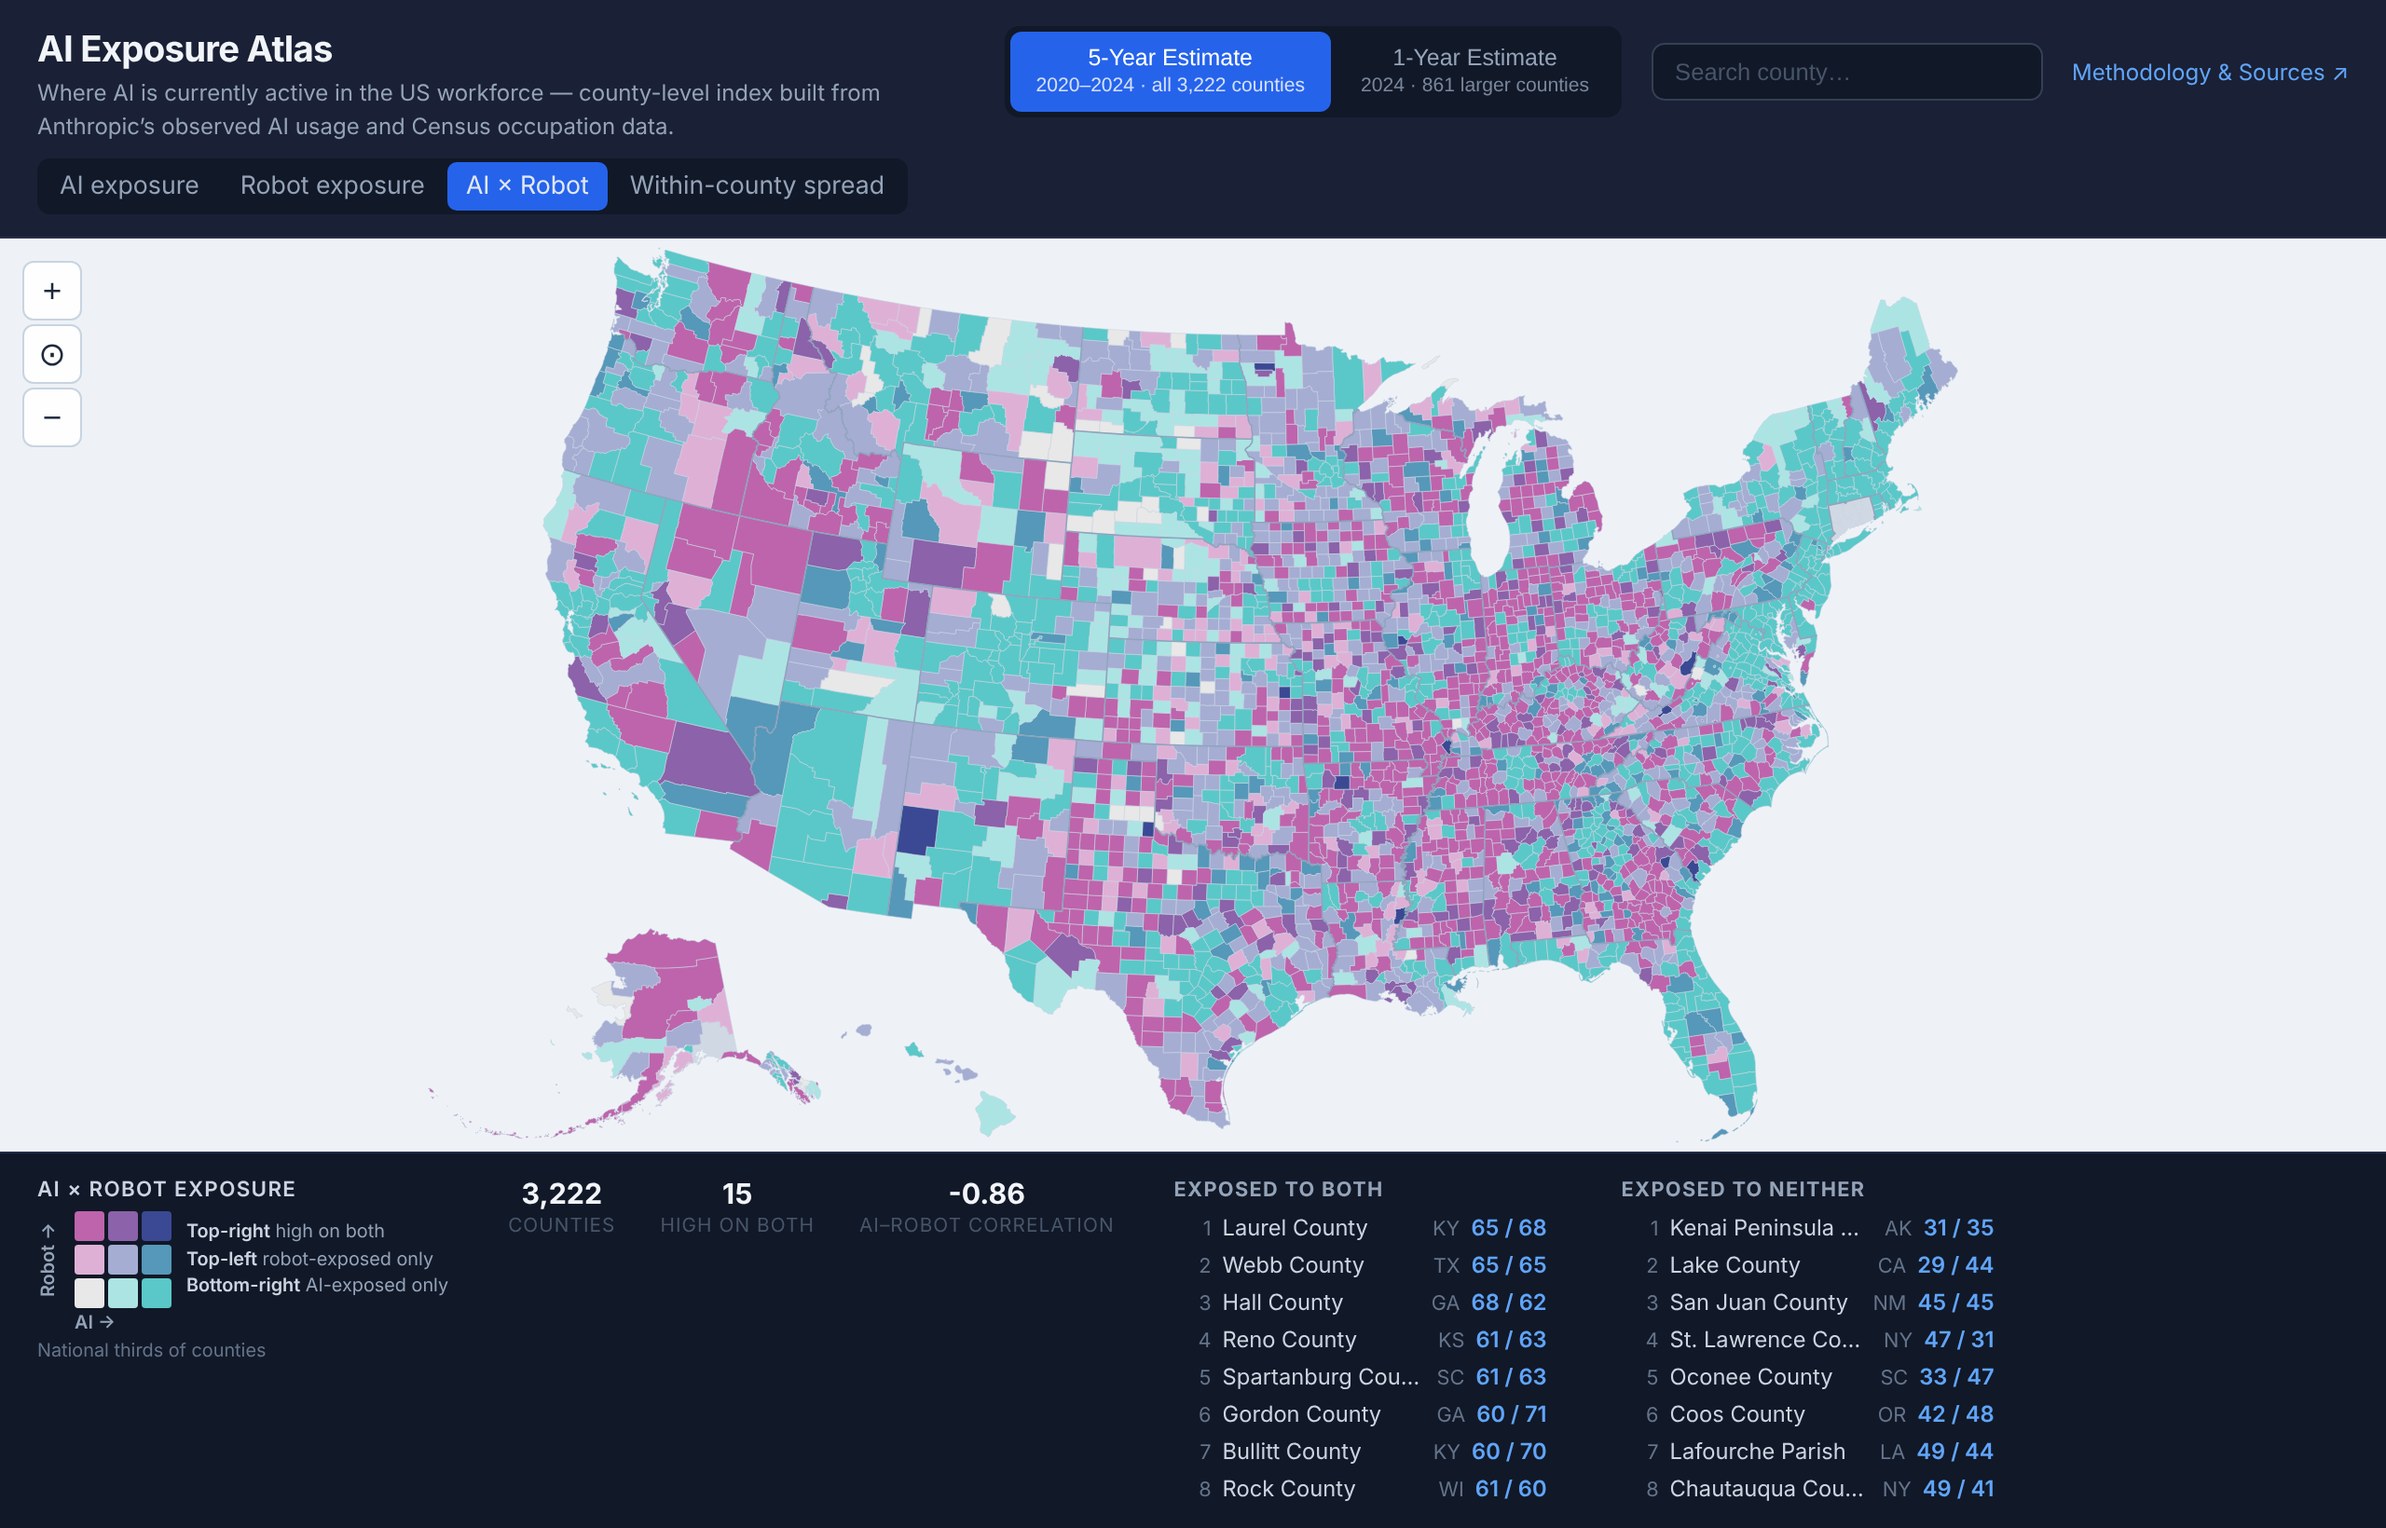
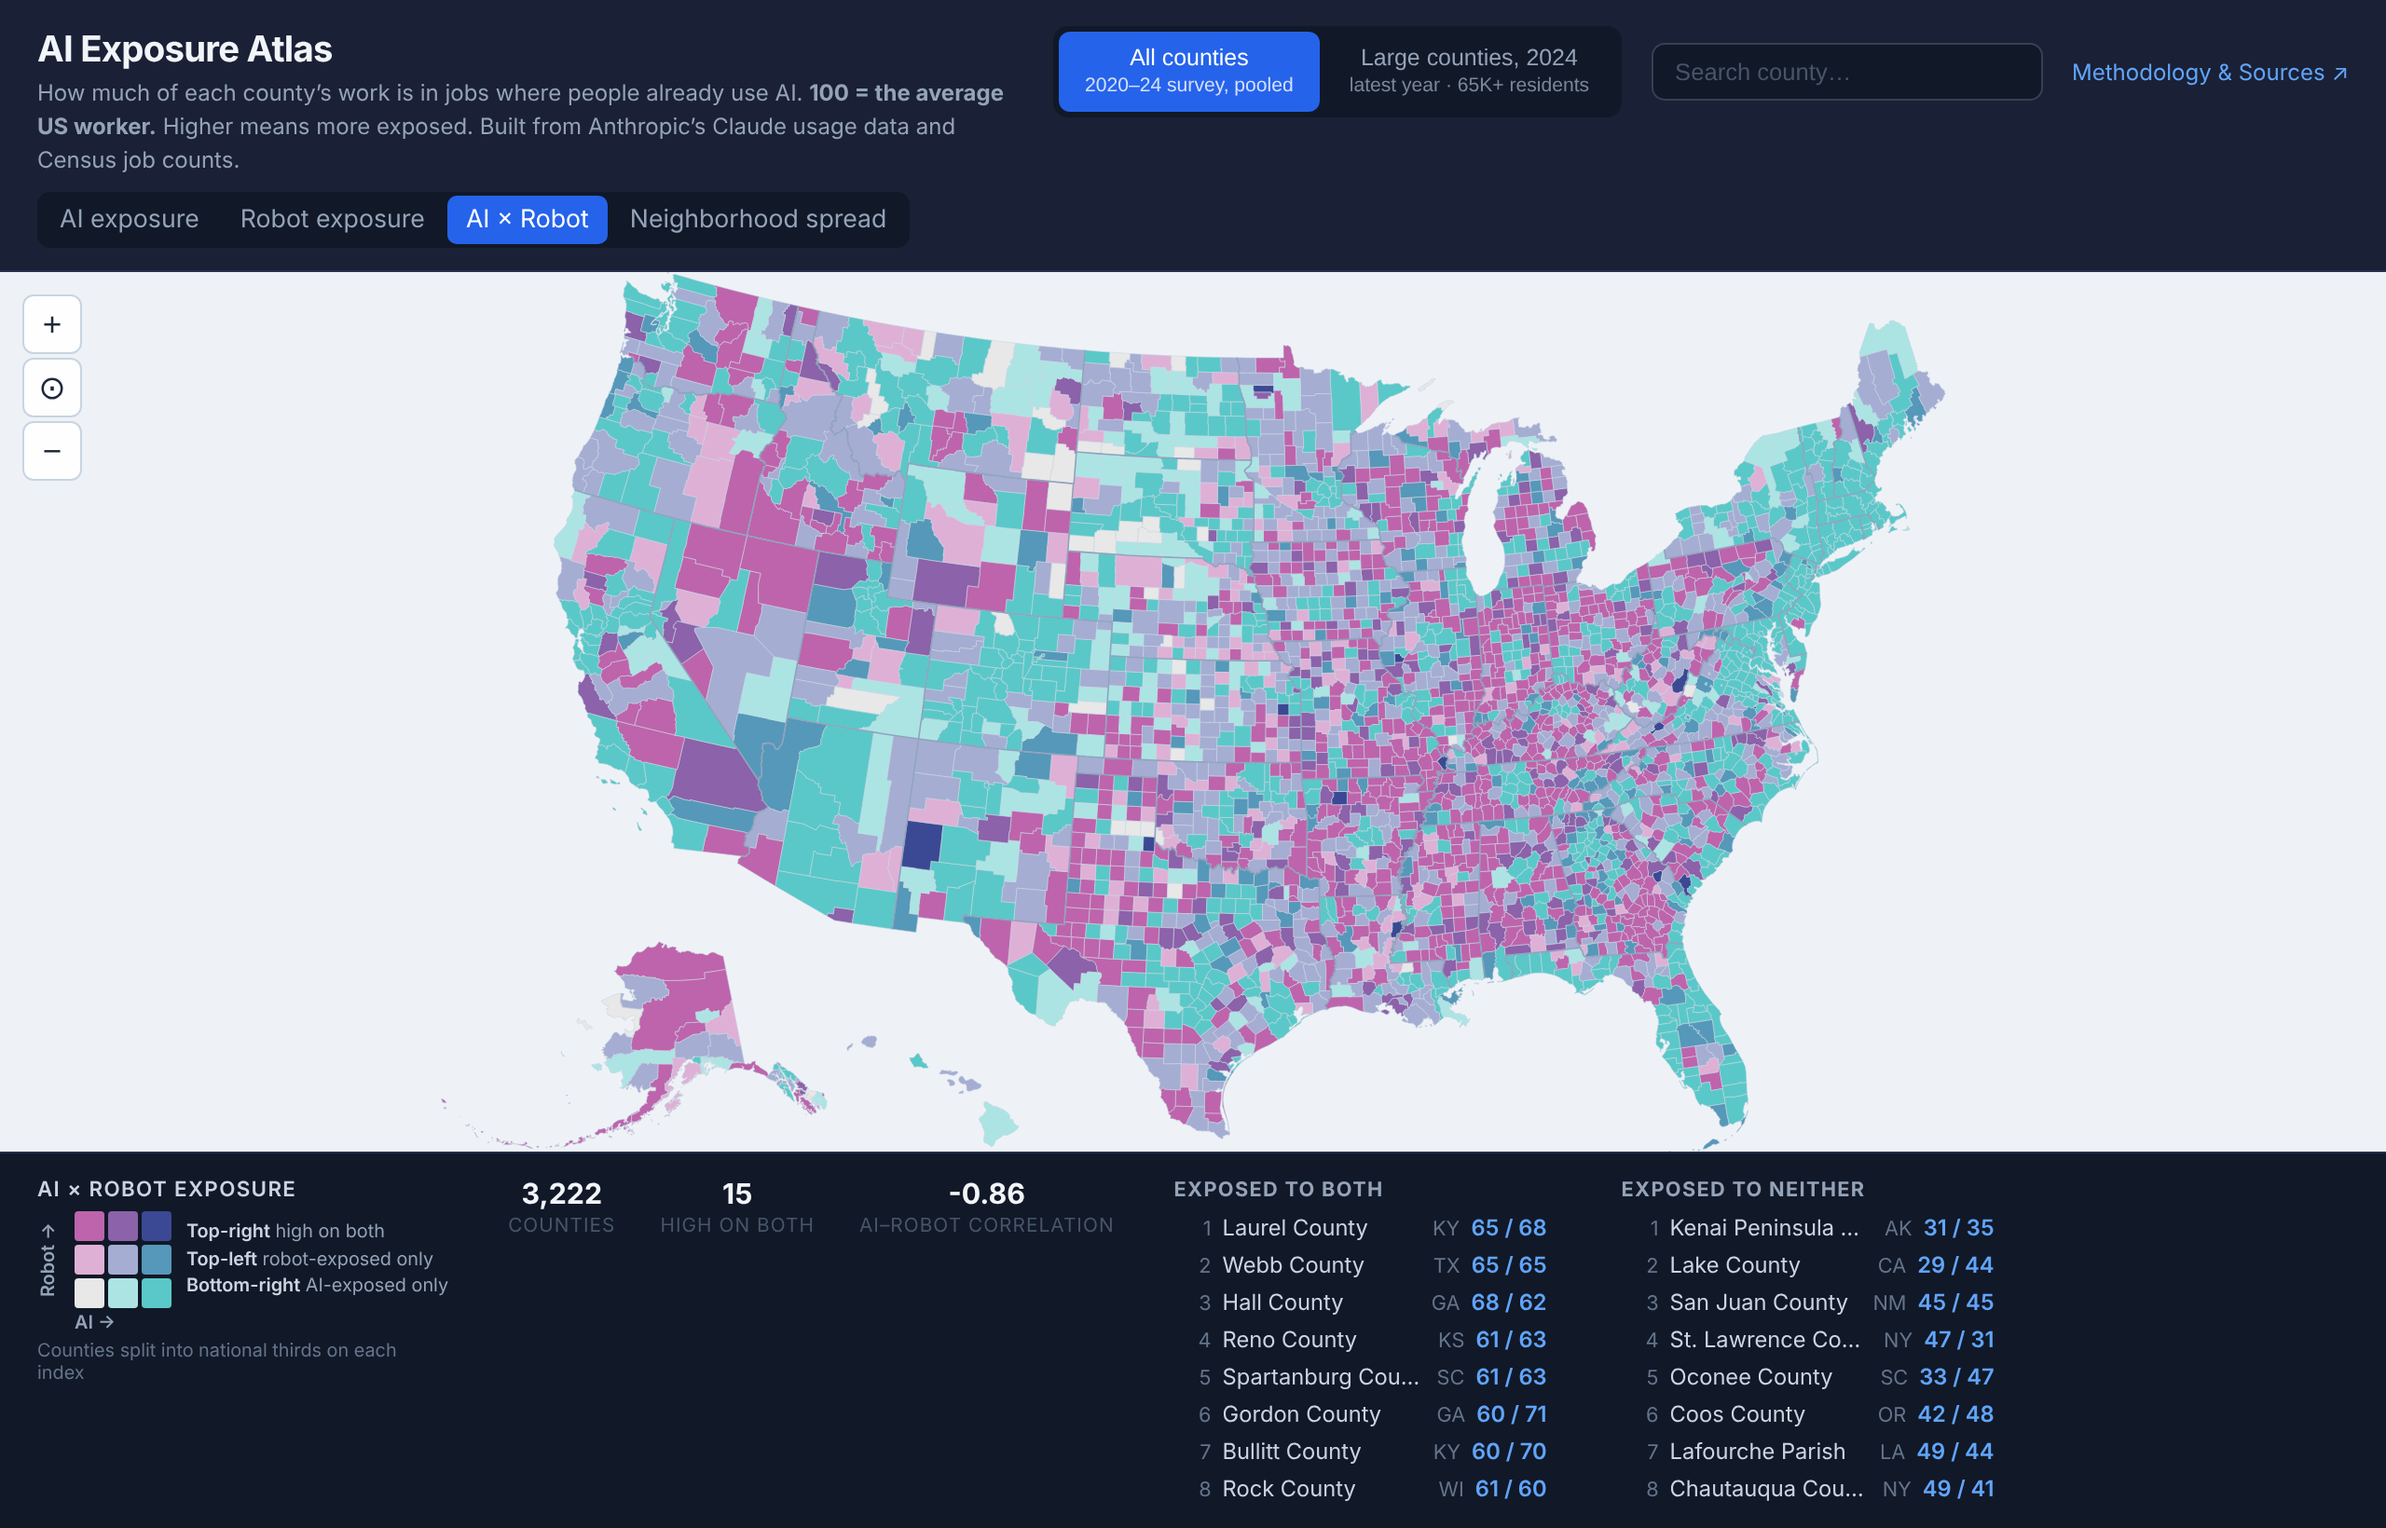
Put automation atlas numbers on the map's 100 = average US worker scale
- Income-fifth table and text use the rescaled indices (AI 82 to 121,
  robot 128 to 70), matching the map. The underlying values are unchanged.
- Data & method section explains the scale; "Where" cites Arlington (147)
  and Merced (138).
- Replace the AI x Robot figure with a fresh render: Connecticut now drawn,
  new toggle labels.

Claude-Session: https://claude.ai/code/session_01JARzqVfsNDRVZGdXyKxmH2

diff --git a/projects/automation-atlas.html b/projects/automation-atlas.html
@@ -317,7 +317,9 @@
                 A county full of software developers scores high on AI; one full of machine operators scores
                 high on robots. Both indices use identical workforce weights, so any difference between them
                 comes from the occupations, not the data. The result covers 3,222 counties and roughly 84,000
-                census tracts.
+                census tracts. To make the numbers easy to read, both indices are scaled so that
+                <strong>100 = the average US worker</strong>: a county at 130 has a job mix 30% more
+                exposed than the national average, and one at 70 is 30% less exposed.
             </p>
         </div>
     </div>
@@ -373,30 +375,30 @@
 
                 <p>
                     <strong>It is also an income map.</strong> Ranking census tracts by median household income,
-                    AI exposure rises steadily from the poorest fifth to the richest. Robot exposure falls just as
-                    steadily. The share of adults with a bachelor's degree correlates +0.76 with AI exposure and
+                    AI exposure rises steadily from 82 in the poorest fifth to 121 in the richest. Robot exposure
+                    falls just as steadily, from 128 to 70. The share of adults with a bachelor's degree correlates +0.76 with AI exposure and
                     &minus;0.86 with robot exposure.
                 </p>
 
                 <div class="table-scroll">
                     <table class="data-table">
                         <thead>
-                            <tr><th>Tract income fifth</th><th>Median household income</th><th>AI exposure</th><th>Robot exposure</th></tr>
+                            <tr><th>Tract income fifth</th><th>Median household income</th><th>AI exposure (US avg = 100)</th><th>Robot exposure (US avg = 100)</th></tr>
                         </thead>
                         <tbody>
-                            <tr><td>Poorest</td><td class="num">$43k</td><td class="num">0.084</td><td class="num">0.505</td></tr>
-                            <tr><td>2nd</td><td class="num">$61k</td><td class="num">0.089</td><td class="num">0.468</td></tr>
-                            <tr><td>3rd</td><td class="num">$77k</td><td class="num">0.096</td><td class="num">0.426</td></tr>
-                            <tr><td>4th</td><td class="num">$98k</td><td class="num">0.106</td><td class="num">0.369</td></tr>
-                            <tr><td>Richest</td><td class="num">$140k</td><td class="num">0.123</td><td class="num">0.276</td></tr>
+                            <tr><td>Poorest</td><td class="num">$43k</td><td class="num">82</td><td class="num">128</td></tr>
+                            <tr><td>2nd</td><td class="num">$61k</td><td class="num">87</td><td class="num">119</td></tr>
+                            <tr><td>3rd</td><td class="num">$77k</td><td class="num">94</td><td class="num">108</td></tr>
+                            <tr><td>4th</td><td class="num">$98k</td><td class="num">104</td><td class="num">94</td></tr>
+                            <tr><td>Richest</td><td class="num">$140k</td><td class="num">121</td><td class="num">70</td></tr>
                         </tbody>
                     </table>
                 </div>
 
                 <p>
-                    <strong>Where.</strong> Among large counties, AI exposure peaks in Arlington and Fairfax,
+                    <strong>Where.</strong> Among large counties, AI exposure peaks in Arlington (147) and Fairfax,
                     Virginia, Washington DC, San Francisco, Santa Clara, and fast-growing suburbs like Collin
-                    County, Texas. Robot exposure peaks in California's Central Valley (Merced, Tulare, Stanislaus,
+                    County, Texas. Robot exposure peaks in California's Central Valley (Merced at 138, Tulare, Stanislaus,
                     Kern), Yakima, Washington, and logistics hubs like Clayton County, Georgia. The largest single
                     driver is factory work: production jobs are 11% of the workforce in robot-heavy counties and
                     4% in AI-heavy ones.
